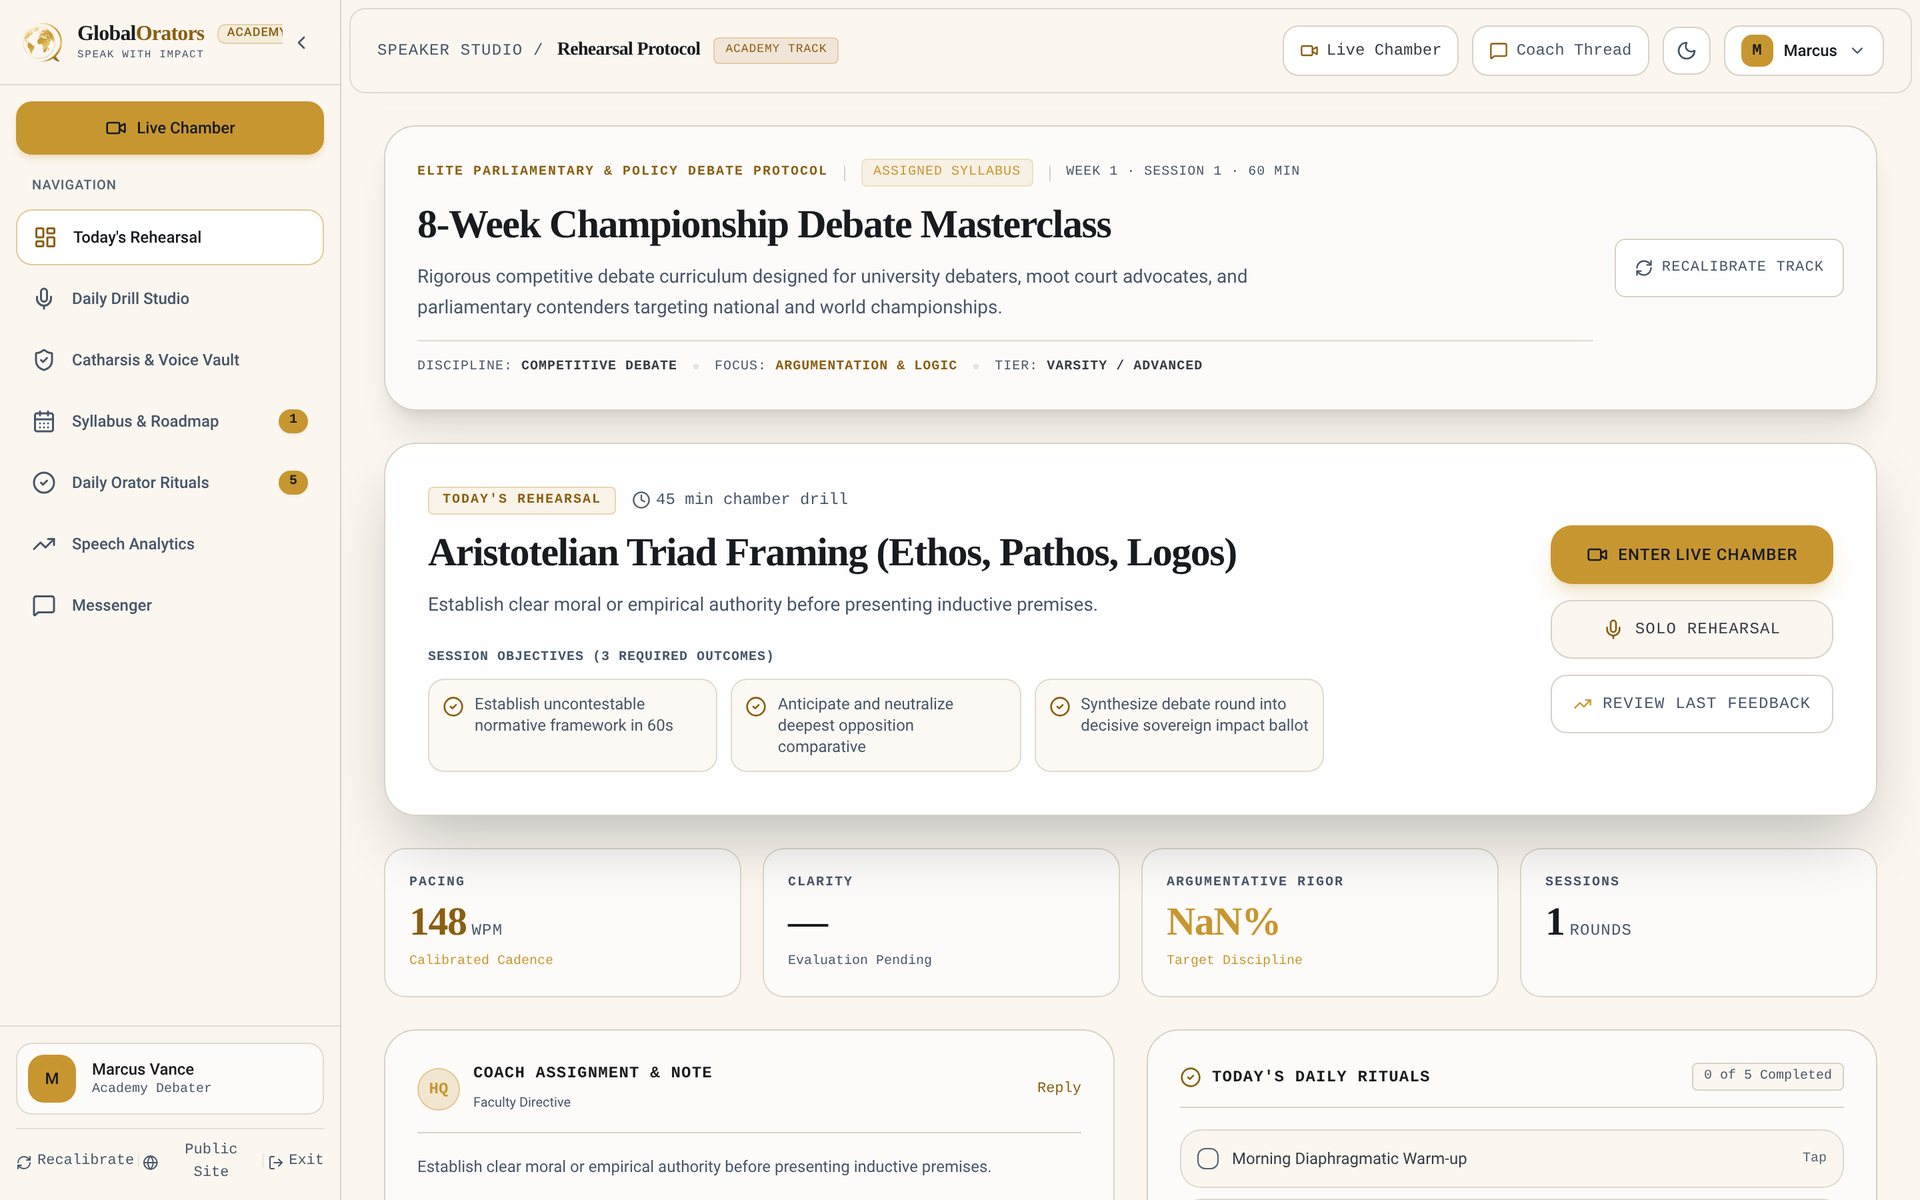
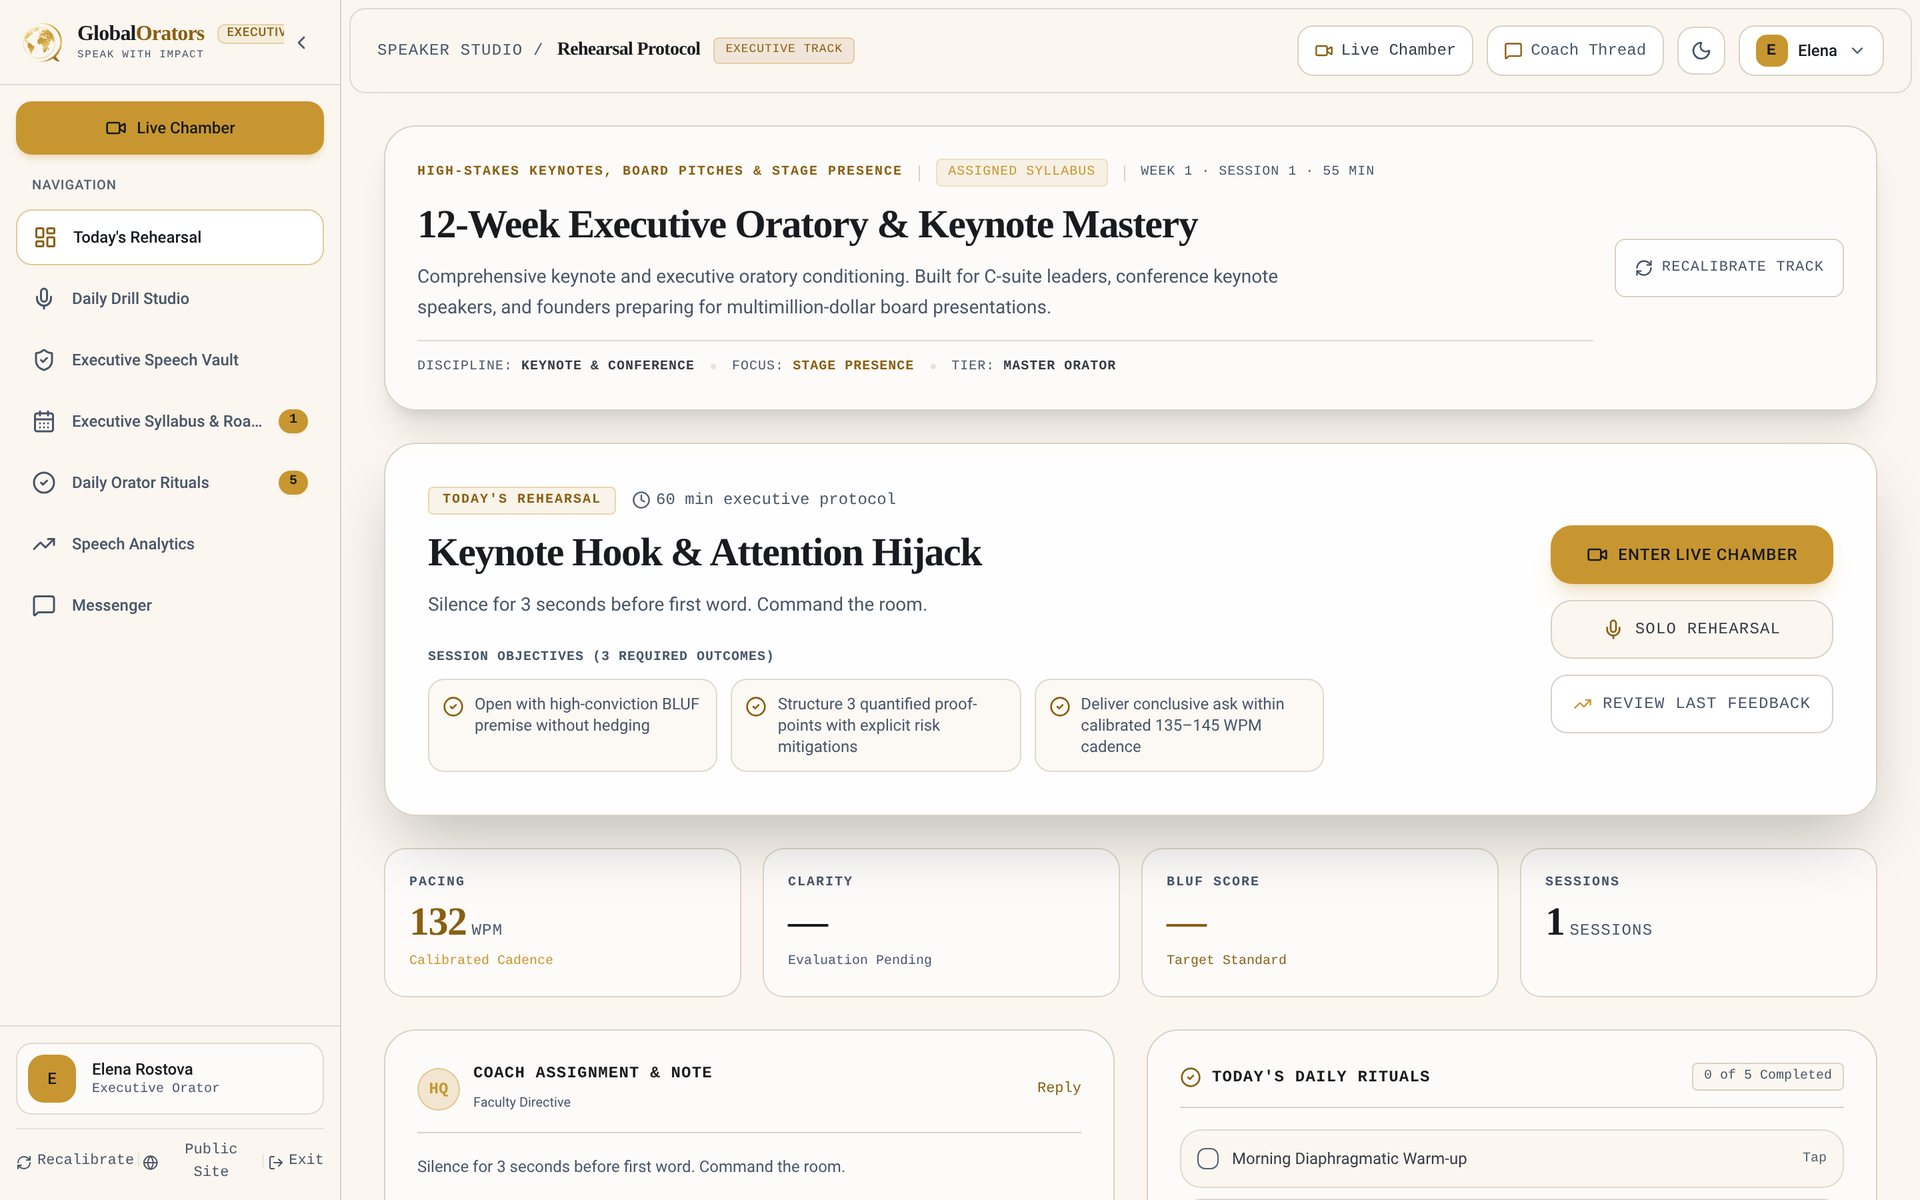
feat(flagships): TambuaTips admin tab and a cleaner orator-app capture
- Admin dashboard screenshots (supplied) added as TambuaTips' fourth tab,
  extended with the dashboard background to fit the device screens
- Orator app recaptured as a demo speaker whose view has no 'NaN%' score

diff --git a/src/data/projects.ts b/src/data/projects.ts
@@ -62,6 +62,11 @@ export const PROJECTS: Project[] = [
         "label": "Tips & plans",
         "desktop": "/flagships/tambuatips/tips-desktop.jpg",
         "mobile": "/flagships/tambuatips/tips-mobile.jpg"
+      },
+      {
+        "label": "Admin",
+        "desktop": "/flagships/tambuatips/admin-desktop.jpg",
+        "mobile": "/flagships/tambuatips/admin-mobile.jpg"
       }
     ],
     deploymentPlatform: "Custom Domain",
@@ -103,6 +108,18 @@ export const PROJECTS: Project[] = [
         "caption": "Tips & plans (mobile)",
         "alt": "TambuaTips — Sports Predictions Platform: Tips & plans on mobile",
         "tag": "TIPS & PLANS"
+      },
+      {
+        "src": "/flagships/tambuatips/admin-desktop.jpg",
+        "caption": "Admin dashboard (desktop)",
+        "alt": "TambuaTips — Sports Predictions Platform: Admin dashboard on desktop",
+        "tag": "ADMIN"
+      },
+      {
+        "src": "/flagships/tambuatips/admin-mobile.jpg",
+        "caption": "Admin dashboard (mobile)",
+        "alt": "TambuaTips — Sports Predictions Platform: Admin dashboard on mobile",
+        "tag": "ADMIN"
       }
     ]
   },
